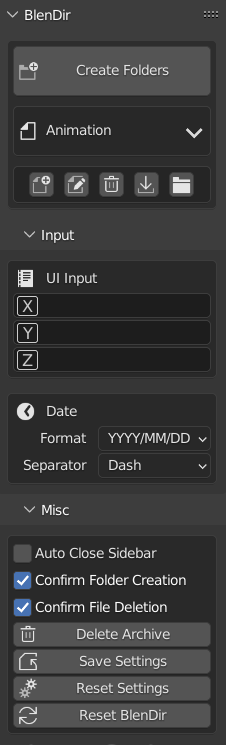
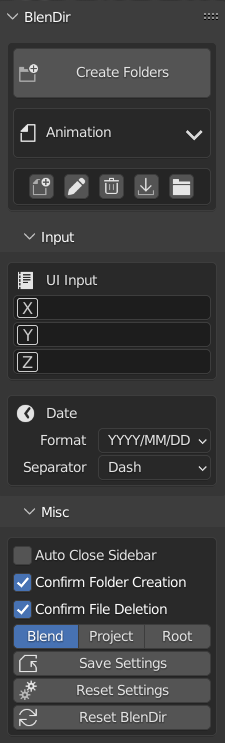
Updated README

diff --git a/blendir_ui.py b/blendir_ui.py
@@ -26,7 +26,7 @@ class BLENDIR_PT_main(Panel):
         row = box.box().row()
         row.alignment = "CENTER"
         row.operator("blendir.new_structure", text="", icon="FILE_NEW")
-        row.operator("blendir.edit_structure", text="", icon="FILE_TICK")
+        row.operator("blendir.edit_structure", text="", icon="GREASEPENCIL")
         row.operator("blendir.delete_structure", text="", icon="TRASH")
         row.operator("blendir.import_structure", text="", icon="IMPORT")
         row.operator("blendir.open", text="", icon="FILEBROWSER")

diff --git a/blendir_ops.py b/blendir_ops.py
@@ -421,7 +421,11 @@ class BLENDIR_OT_reset_settings(Operator):
 class BLENDIR_OT_reset(Operator):
     bl_idname = "blendir.reset"
     bl_label = "Reset BlenDir"
-    bl_description = "Reset all BlenDir settings and properties to their default values"
+    bl_description = (
+        "Reset all BlenDir settings and properties to their default values."
+        " BlenDir will function similar to how it does when a new Blender file is "
+        "started"
+    )
 
     def execute(self, context):
         props = context.scene.blendir_props

diff --git a/README.md b/README.md
@@ -72,7 +72,7 @@ Add keywords to program the folder structure generator!
 ### Save startup settings
 
 - Click ![Save Settings](docs/save_settings.PNG)
-- The current settings will be saved and loaded when starting Blender
+- The current settings will be saved and loaded when starting a new Blender file
 
 ### More Features
 
@@ -119,3 +119,4 @@ Add keywords to program the folder structure generator!
 ## Notes
 
 - BlenDir is for Blender version 2.90 and above
+- Works on Windows and Linux, untested on macOS
